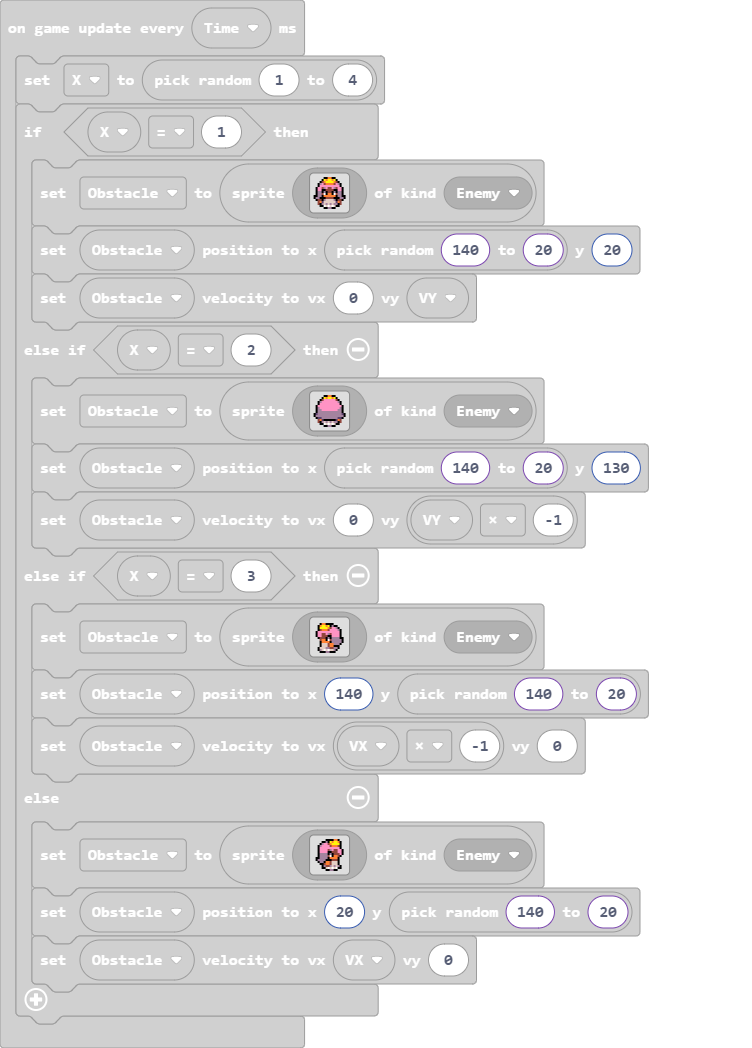
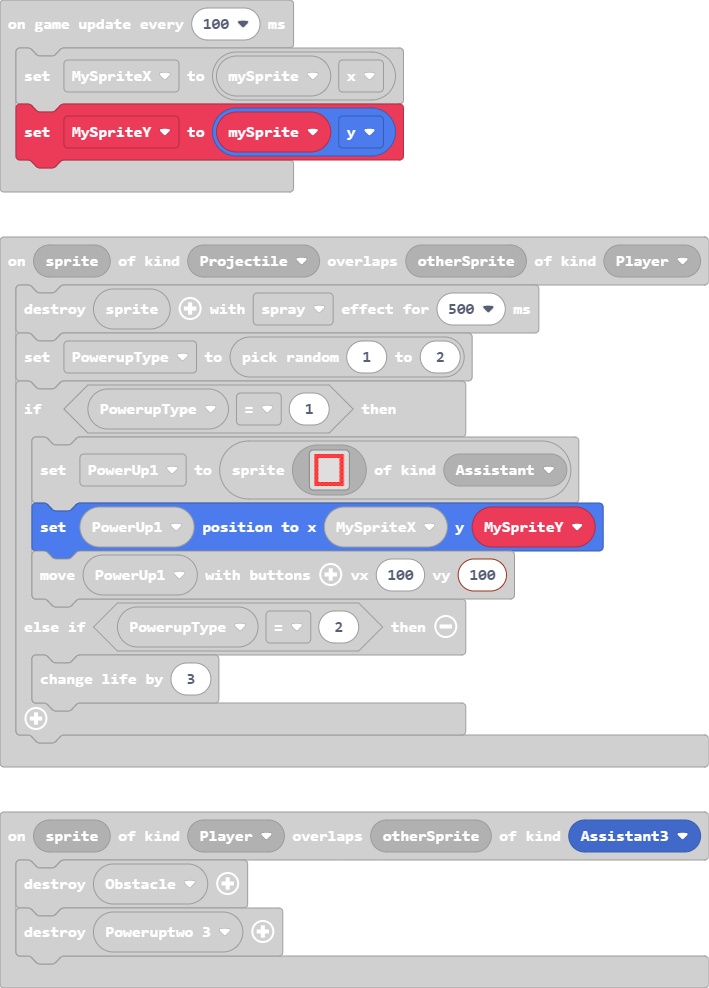
Fixed Shield powerup

diff --git a/main.ts b/main.ts
@@ -33,28 +33,40 @@ sprites.onOverlap(SpriteKind.Projectile, SpriteKind.Player, function (sprite, ot
     PowerupType = randint(1, 2)
     if (PowerupType == 1) {
         PowerUp1 = sprites.create(img`
-            . . . . . . . . . c c 8 . . . . 
-            . . . . . . 8 c c c f 8 c c . . 
-            . . . c c 8 8 f c a f f f c c . 
-            . . c c c f f f c a a f f c c c 
-            8 c c c f f f f c c a a c 8 c c 
-            c c c b f f f 8 a c c a a a c c 
-            c a a b b 8 a b c c c c c c c c 
-            a f c a a b b a c c c c c f f c 
-            a 8 f c a a c c a c a c f f f c 
-            c a 8 a a c c c c a a f f f 8 a 
-            . a c a a c f f a a b 8 f f c a 
-            . . c c b a f f f a b b c c 6 c 
-            . . . c b b a f f 6 6 a b 6 c . 
-            . . . c c b b b 6 6 a c c c c . 
-            . . . . c c a b b c c c . . . . 
-            . . . . . c c c c c c . . . . . 
+            2222222222222222222222
+            2222222222222222222222
+            2222222222222222222222
+            222................222
+            222................222
+            222................222
+            222................222
+            222................222
+            222................222
+            222................222
+            222................222
+            222................222
+            222................222
+            222................222
+            222................222
+            222................222
+            222................222
+            222................222
+            222................222
+            222................222
+            222................222
+            2222222222222222222222
+            2222222222222222222222
+            2222222222222222222222
             `, SpriteKind.Assistant)
-        PowerUp1.setPosition(MySpriteX, 100)
-        controller.moveSprite(PowerUp1, 100, 0)
+        PowerUp1.setPosition(MySpriteX, MySpriteY)
+        controller.moveSprite(PowerUp1, 100, 100)
     } else if (PowerupType == 2) {
         info.changeLifeBy(3)
     }
+})
+sprites.onOverlap(SpriteKind.Player, SpriteKind.Assistant3, function (sprite, otherSprite) {
+    Obstacle.destroy()
+    Poweruptwo_3.destroy()
 })
 info.onCountdownEnd(function () {
     Powerup = sprites.create(img`
@@ -108,12 +120,9 @@ sprites.onOverlap(SpriteKind.Enemy, SpriteKind.Assistant, function (sprite, othe
     Poweruptwo_2.setPosition(MySpriteX, 100)
     controller.moveSprite(Poweruptwo_2, 100, 0)
 })
-sprites.onOverlap(SpriteKind.Player, SpriteKind.Player, function (sprite, otherSprite) {
-    Obstacle.destroy()
-    Poweruptwo_3.destroy()
-})
 let X = 0
 let Powerup: Sprite = null
+let MySpriteY = 0
 let PowerUp1: Sprite = null
 let PowerupType = 0
 let Poweruptwo_3: Sprite = null
@@ -244,4 +253,5 @@ game.onUpdateInterval(Time, function () {
 })
 game.onUpdateInterval(100, function () {
     MySpriteX = mySprite.x
+    MySpriteY = mySprite.y
 })

diff --git a/images.g.ts b/images.g.ts
@@ -75,24 +75,6 @@ c b b a a c f 8 a c c c 8 c c c
 . . . . . . . . . . . . . . . . 
 . . . . . . . . . . . . . . . . 
 `;
-            case "image6":return img`
-. . . . . . . . . c c 8 . . . . 
-. . . . . . 8 c c c f 8 c c . . 
-. . . c c 8 8 f c a f f f c c . 
-. . c c c f f f c a a f f c c c 
-8 c c c f f f f c c a a c 8 c c 
-c c c b f f f 8 a c c a a a c c 
-c a a b b 8 a b c c c c c c c c 
-a f c a a b b a c c c c c f f c 
-a 8 f c a a c c a c a c f f f c 
-c a 8 a a c c c c a a f f f 8 a 
-. a c a a c f f a a b 8 f f c a 
-. . c c b a f f f a b b c c 6 c 
-. . . c b b a f f 6 6 a b 6 c . 
-. . . c c b b b 6 6 a c c c c . 
-. . . . c c a b b c c c . . . . 
-. . . . . c c c c c c . . . . . 
-`;
             case "image9":return img`
 . . . . . . f f f f 4 4 f . . . 
 . . . . f f b f 5 4 5 5 4 f . . 
@@ -164,6 +146,32 @@ f b b f f f e e e e f f f b b f
 . . e f b d b d b d b b f e . . 
 . . . f f 1 d 1 d 1 d f f . . . 
 . . . . . f f b b f f . . . . . 
+`;
+            case "image6":return img`
+2222222222222222222222
+2222222222222222222222
+2222222222222222222222
+222................222
+222................222
+222................222
+222................222
+222................222
+222................222
+222................222
+222................222
+222................222
+222................222
+222................222
+222................222
+222................222
+222................222
+222................222
+222................222
+222................222
+222................222
+2222222222222222222222
+2222222222222222222222
+2222222222222222222222
 `;
         }
         return null;
